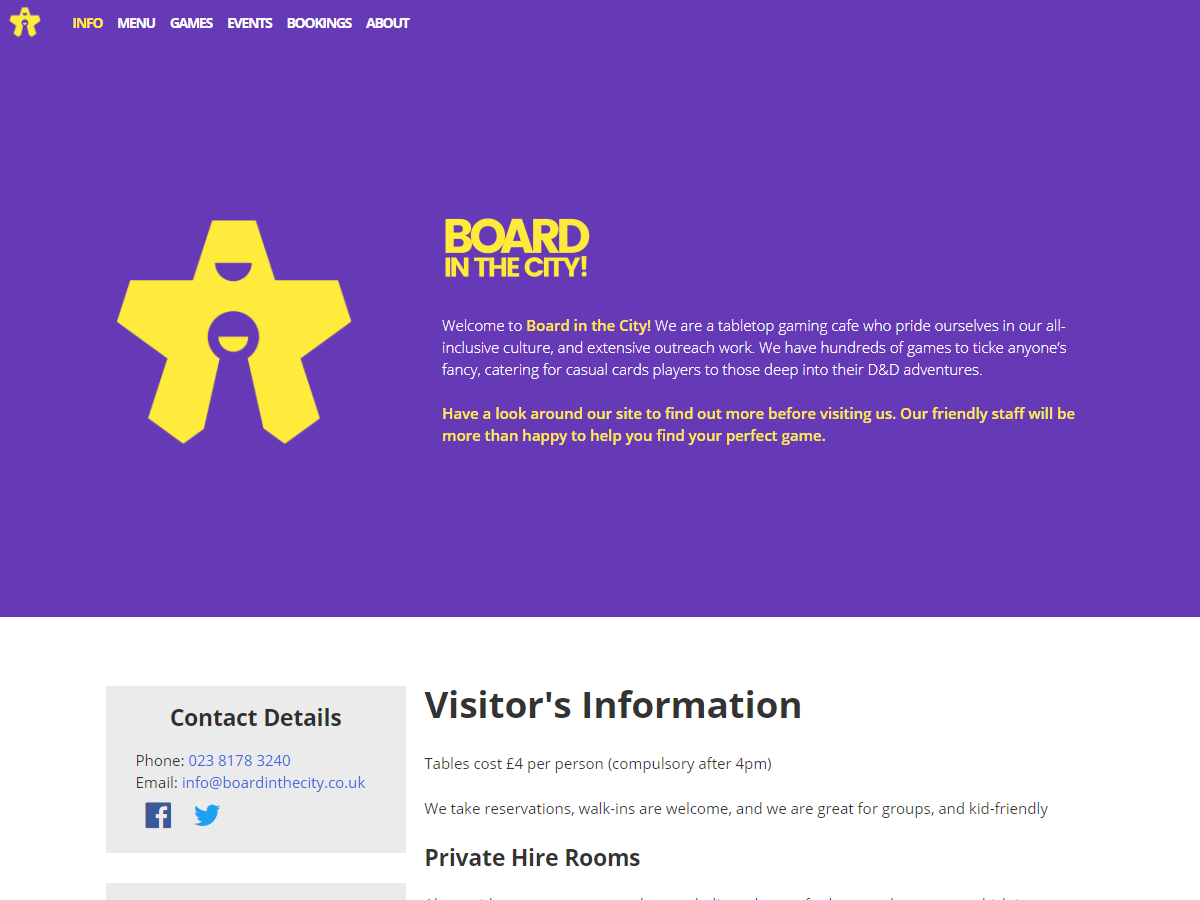
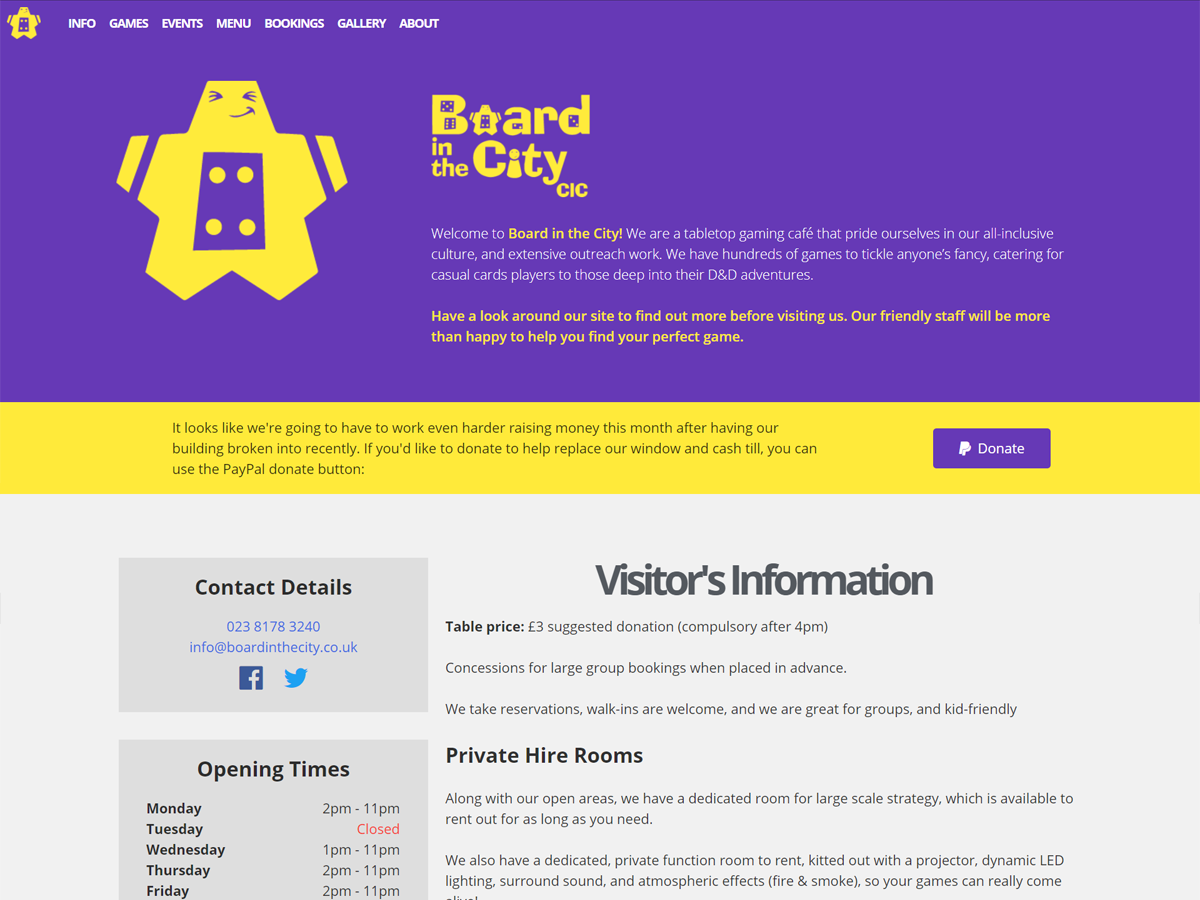
added accordion styles

diff --git a/style.css b/style.css
@@ -860,6 +860,19 @@ a {
   color: #ffea3a;
   font-size: 0.75rem; }
 
+.elementor-widget-accordion .elementor-accordion .elementor-accordion-item {
+  border: none; }
+  .elementor-widget-accordion .elementor-accordion .elementor-accordion-item .elementor-accordion-title {
+    color: #ffea3a;
+    font-size: 150%;
+    letter-spacing: -2px;
+    text-transform: uppercase; }
+    .elementor-widget-accordion .elementor-accordion .elementor-accordion-item .elementor-accordion-title:hover {
+      background-color: rgba(255, 255, 255, 0.08); }
+  .elementor-widget-accordion .elementor-accordion .elementor-accordion-item .elementor-accordion-content {
+    border: none;
+    padding: 0; }
+
 #game_finder {
   display: flex;
   align-items: stretch;
@@ -1240,7 +1253,7 @@ a {
 
 .simcal-event-details {
   color: #666; }
-  .simcal-event-details p {
+  .simcal-event-details > p {
     margin: 0 !important; }
   .simcal-event-details .simcal-event-title {
     color: #6639B6;
@@ -1255,6 +1268,8 @@ a {
     display: none; }
   .simcal-event-details .simcal-event-description {
     margin: 1rem 0 !important; }
+    .simcal-event-details .simcal-event-description p {
+      margin: 0.5rem 0; }
   .simcal-event-details a {
     display: none; }
 
@@ -1339,43 +1354,64 @@ a {
     #info .elementor-row:first-of-type .elementor-column.elementor-col-33, #info .elementor-row:first-of-type .elementor-column[data-col="33"] {
       min-width: 340px; } }
 
-.block-section.menu h2 {
+#menu h2 {
   display: inline-block; }
-.block-section.menu h2 + p {
+#menu h2 + p {
   display: inline-block;
   margin-left: 0.5rem;
   opacity: 0.5; }
-.block-section.menu .elementor-row {
+#menu .elementor-widget-accordion {
+  margin: 0 auto;
+  max-width: 640px; }
+  #menu .elementor-widget-accordion p {
+    margin: 0; }
+#menu .elementor-row {
   flex-wrap: nowrap; }
-  .block-section.menu .elementor-row .elementor-column:first-of-type {
+  #menu .elementor-row .elementor-column:first-of-type {
     margin-right: 1rem; }
-  .block-section.menu .elementor-row .elementor-column:last-of-type {
+  #menu .elementor-row .elementor-column:last-of-type {
     margin-left: 1rem; }
   @media screen and (max-width: 768px) {
-    .block-section.menu .elementor-row {
+    #menu .elementor-row {
       flex-wrap: wrap; }
-      .block-section.menu .elementor-row .elementor-column {
+      #menu .elementor-row .elementor-column {
         margin: 0 !important;
         width: 100%; } }
-.block-section.menu .tablepress.menu thead tr th:first-of-type {
-  color: #ffea3a;
-  font-size: 150%;
-  letter-spacing: -2px;
-  text-transform: uppercase; }
-.block-section.menu .tablepress.menu thead tr th:last-of-type {
-  color: rgba(255, 255, 255, 0.75);
-  font-weight: 300;
-  min-width: 100px;
-  text-align: right; }
-.block-section.menu .tablepress.menu tbody td {
-  border-top: none; }
-.block-section.menu .tablepress.menu tbody tr td:first-of-type {
-  width: 70%; }
-.block-section.menu .tablepress.menu tbody tr td:last-of-type {
-  color: #ffea3a;
-  font-weight: 700;
-  text-align: right; }
-.block-section.menu .option {
+#menu .tablepress.menu {
+  margin: 0; }
+  #menu .tablepress.menu thead tr th:first-of-type {
+    color: #ffea3a;
+    font-size: 150%;
+    letter-spacing: -2px;
+    text-transform: uppercase; }
+  #menu .tablepress.menu thead tr th:last-of-type {
+    color: rgba(255, 255, 255, 0.75);
+    font-weight: 300;
+    min-width: 100px;
+    text-align: right; }
+  #menu .tablepress.menu tbody tr td {
+    border-top: none; }
+  #menu .tablepress.menu tbody tr td[colspan] {
+    color: #ffea3a;
+    font-weight: 500; }
+  #menu .tablepress.menu tbody tr td:first-of-type {
+    padding-left: 1rem;
+    width: 100%; }
+    #menu .tablepress.menu tbody tr td:first-of-type.indent {
+      color: #ffea3a;
+      padding-left: 3rem; }
+      #menu .tablepress.menu tbody tr td:first-of-type.indent[colspan] {
+        padding-right: 3rem; }
+  #menu .tablepress.menu tbody tr td:last-of-type:not(:first-of-type) {
+    color: #ffea3a;
+    font-size: 125%;
+    font-weight: 700;
+    padding-left: 2rem;
+    padding-right: 1rem;
+    text-align: right;
+    white-space: nowrap;
+    width: 1px; }
+#menu .option {
   background-color: rgba(0, 0, 0, 0.2);
   border-radius: 12px;
   color: white;
@@ -1386,12 +1422,14 @@ a {
   font-weight: 700;
   height: 20px;
   min-width: 20px;
-  padding: 0 4px; }
-  .block-section.menu .option.vegetarian {
+  padding: 0 6px; }
+  #menu .option.vegetarian {
     background-color: #00C853; }
-  .block-section.menu .option.vegan {
+  #menu .option.vegan {
     background-color: #0091EA; }
-  .block-section.menu .option.gluten-free {
+  #menu .option.gluten-free {
+    background-color: #FFC107; }
+  #menu .option.dairy-free {
     background-color: #FF5722; }
 
 .block-section.bookings a[href*="tel:"] {

diff --git a/sass/sections/_menu.scss b/sass/sections/_menu.scss
@@ -1,4 +1,4 @@
-.block-section.menu {
+#menu {
 
     h2 {
         display: inline-block;
@@ -8,6 +8,12 @@
         display: inline-block;
         margin-left: 0.5rem;
         opacity: 0.5;
+    }
+
+    .elementor-widget-accordion {
+        margin: 0 auto;
+        max-width: 640px;
+        p { margin: 0; }
     }
 
     .elementor-row {
@@ -24,6 +30,7 @@
     }
 
     .tablepress.menu {
+        margin: 0;
 
         thead tr {
             th:first-of-type {
@@ -41,18 +48,37 @@
             }
         }
 
-        tbody td {
+        tbody tr td {
             border-top: none;
         }
 
-        tbody tr td:first-of-type {
-            width: 70%;
+        tbody tr td[colspan] {
+            // color: rgba(0,0,0,0.5);
+            color: $color__secondary;
+            font-weight: 500;
         }
 
-        tbody tr td:last-of-type {
+        tbody tr td:first-of-type {
+            padding-left: 1rem;
+            width: 100%;
+            &.indent {
+                color: $color__secondary;
+                padding-left: 3rem;
+                &[colspan] {
+                    padding-right: 3rem;
+                }
+            }
+        }
+
+        tbody tr td:last-of-type:not(:first-of-type) {
             color: $color__secondary;
+            font-size: 125%;
             font-weight: 700;
+            padding-left: 2rem;
+            padding-right: 1rem;
             text-align: right;
+            white-space: nowrap;
+            width: 1px;
         }
     }
 
@@ -67,10 +93,11 @@
         font-weight: 700;
         height: 20px;
         min-width: 20px;
-        padding: 0 4px;
+        padding: 0 6px;
 
         &.vegetarian  { background-color: #00C853; }
         &.vegan       { background-color: #0091EA; }
-        &.gluten-free { background-color: #FF5722; }
+        &.gluten-free { background-color: #FFC107; }
+        &.dairy-free  { background-color: #FF5722; }
     }
 }

diff --git a/js/scripts.js b/js/scripts.js
@@ -47,14 +47,23 @@ jQuery(document).ready( function($) {
     //////////////////////////////////////////
 
     function format(i,el) {
-        let text = $(el).text().replace(/\[/g, '<span class="option">').replace(/\]/g, '</span>');
-        $(el).html(text);
+
+
+        let text = $(el).text();
+        let indent = text.substr(0,1) == '>';
+        let newText = $(el).text().replace('> ', '').replace(/\[/g, '<span class="option">').replace(/\]/g, '</span>');
+        $(el).html(newText);
+
+        // if ( indent ) { $(el).css('padding-left', '2rem'); }
+        if ( indent ) { $(el).addClass('indent'); }
 
         $('.option').each((i,opt) => {
             let option = $(opt).text();
             switch ( true ) {
-                case option.indexOf('Vgn') > -1:
+                case option.indexOf('V+') > -1:
                     $(opt).addClass('vegan'); break;
+                case option.indexOf('DF') > -1:
+                    $(opt).addClass('dairy-free'); break;
                 case option.indexOf('GF') > -1:
                     $(opt).addClass('gluten-free'); break;
                 case option.indexOf('V') > -1:

diff --git a/sass/components/_elementor-accordion.scss b/sass/components/_elementor-accordion.scss
@@ -1,0 +1,22 @@
+.elementor-widget-accordion {
+
+    .elementor-accordion {
+
+        .elementor-accordion-item {
+            border: none;
+
+            .elementor-accordion-title {
+                color: $color__secondary;
+                font-size: 150%;
+                letter-spacing: -2px;
+                text-transform: uppercase;
+                &:hover { background-color: rgba(255,255,255,0.08); }
+            }
+
+            .elementor-accordion-content {
+                border: none;
+                padding: 0;
+            }
+        }
+    }
+}

diff --git a/sass/components/_simple-calendar.scss b/sass/components/_simple-calendar.scss
@@ -85,7 +85,7 @@
 
 .simcal-event-details {
     color: $color__text-input;
-    p { margin: 0!important; }
+    &> p { margin: 0!important; }
     .simcal-event-title {
         color: $color__primary;
         font-size: 125%;
@@ -98,6 +98,9 @@
         opacity: 0.85;
     }
     .simcal-event-address { display: none; }
-    .simcal-event-description { margin: 1rem 0!important; }
+    .simcal-event-description {
+        margin: 1rem 0!important;
+        p { margin: 0.5rem 0; }
+    }
     a { display: none; }
 }

diff --git a/sass/style.scss b/sass/style.scss
@@ -103,6 +103,7 @@ Nicolas Gallagher and Jonathan Neal http://necolas.github.io/normalize.css/
 @import "components/contact-card";
 @import "components/contact-form-7";
 @import "components/elementor";
+@import "components/elementor-accordion";
 @import "components/game-finder";
 @import "components/masthead";
 @import "components/opening-times";
